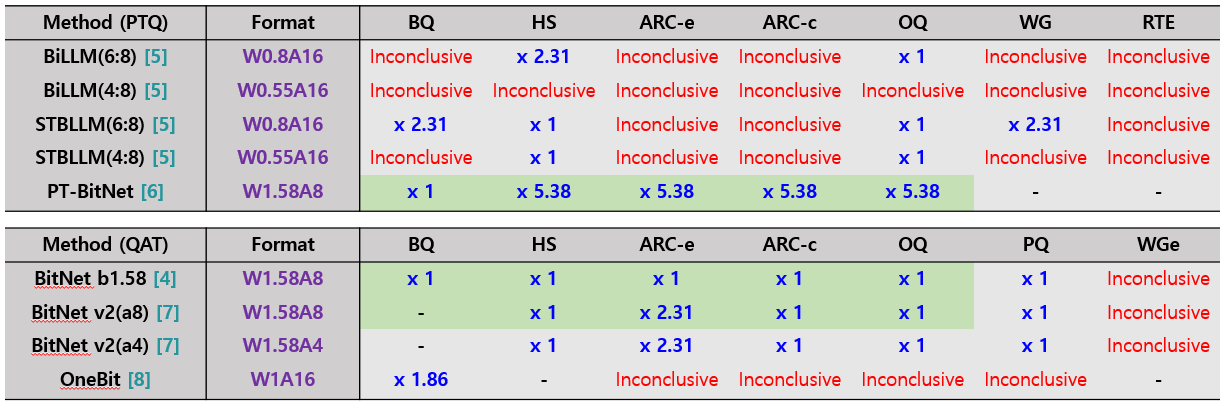
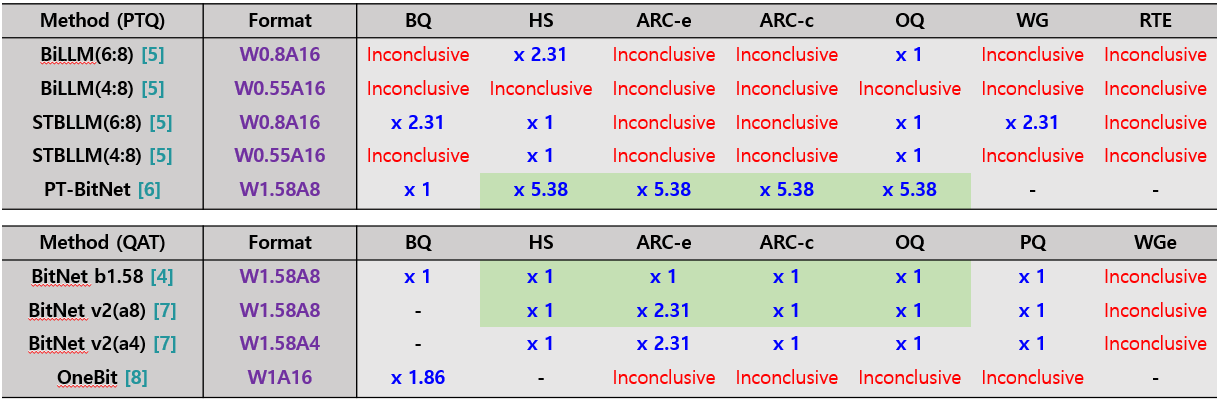
ㄴㅇㄴㅇ

diff --git a/_posts/2018-12-22-distill.md b/_posts/2018-12-22-distill.md
@@ -49,6 +49,7 @@ toc:
     subsections:
     - name: Scaling Factor
     - name: Results
+    - name: Summary of key results
   - name: Contribution & Conclusion
   - nmae: Limitation
 
@@ -257,9 +258,16 @@ STBLLM (Structured Binary LLM) is a new compression framework that structurally 
 ## Methodology for Finding the Scaling Factor & Results
 
 ### Scaling Factor
+The model size required to perform more than 90% of the FP16 baseline zero-shot accuracy is expressed as a scaling factor.
+
+$$
+Scaling Factor = \frac{Model size for Low bit training }{Model size for FP16 Baseline}
+$$
+**Example**: 1bit quantization model requires 1.8× the size of the original model to perform 90% → Scaling Factor = 1.8
+
 
 ### Results
-Based on our survey of references <a href="https://arxiv.org/abs/2402.17764">[4]</a>–<a href="https://arxiv.org/abs/2402.11295">[8]</a>, we extracted the scaling factor required to approach FP16 performance.
+Based on our survey of references <a href="https://arxiv.org/abs/2402.17764">[4]</a>–<a href="https://arxiv.org/abs/2402.11295">[8]</a>, we extracted the scaling factor required to approach FP16 performance. When the model size tested in the reference was less than 90% of the performance of the zero-shot accumulation, it was marked as Inconclusive (Red).
 
 <div style="text-align: center;">
   <img
@@ -269,8 +277,25 @@ Based on our survey of references <a href="https://arxiv.org/abs/2402.17764">[4]
   />
 </div>
 <br>
+In the table, the light green area is a common benchmark evaluated in both PTQ and QAT, limited to W1.58A8 format. Through the following graph, it is possible to determine which method of PTQ and QAT may more efficiently minimize the parameter expansion through fair conditions (same bit width, same format).
+<div style="text-align: center;">
+  <img
+    src="/assets/img/PTQ_QAT_Format.png"
+    alt="PTQ vs QAT Table"
+    style="max-width: 100%; height: auto; object-fit: contain;"
+  />
+</div>
+<br>
 
-It is believed that QAT requires a smaller model than PTQ because PTQ only quantizes the already learned model as it is, while QAT reflects the quantization process during learning to help parameters correct the 'quantization error' when learning. In other words, the efficiency of PTQ drops sharply when the bit-width is extended low<a href="https://arxiv.org/abs/2402.11295">[8]</a>, suggesting the insight that QAT is essential for extreme low bit training.
+### Summary of key results
+- **Sub 1-bit training**
+The Sub 1-bit method fell short of the baseline on almost all benchmarks.(especially 4-bit activation)
+- **1-bit training**
+Lowering the weight to 1 bit in the QAT scheme did not achieve a reference point on most benchmarks, even if the activation bit was high.
+- **1.58-bit training**
+The PTQ method requires a model size that is two to five times higher than the QAT.
+
+In the case of the PTQ method, it can be seen that the reference point is below the reference point in most benchmarks.It is believed that QAT requires a smaller model than PTQ because PTQ only quantizes the already learned model as it is, while QAT reflects the quantization process during learning to help parameters correct the 'quantization error' when learning. In other words, the efficiency of PTQ drops sharply when the bit-width is extended low<a href="https://arxiv.org/abs/2402.11295">[8]</a>, suggesting the insight that QAT is essential for extreme low bit training.
 
 
 ## Contribution & Conclusion
